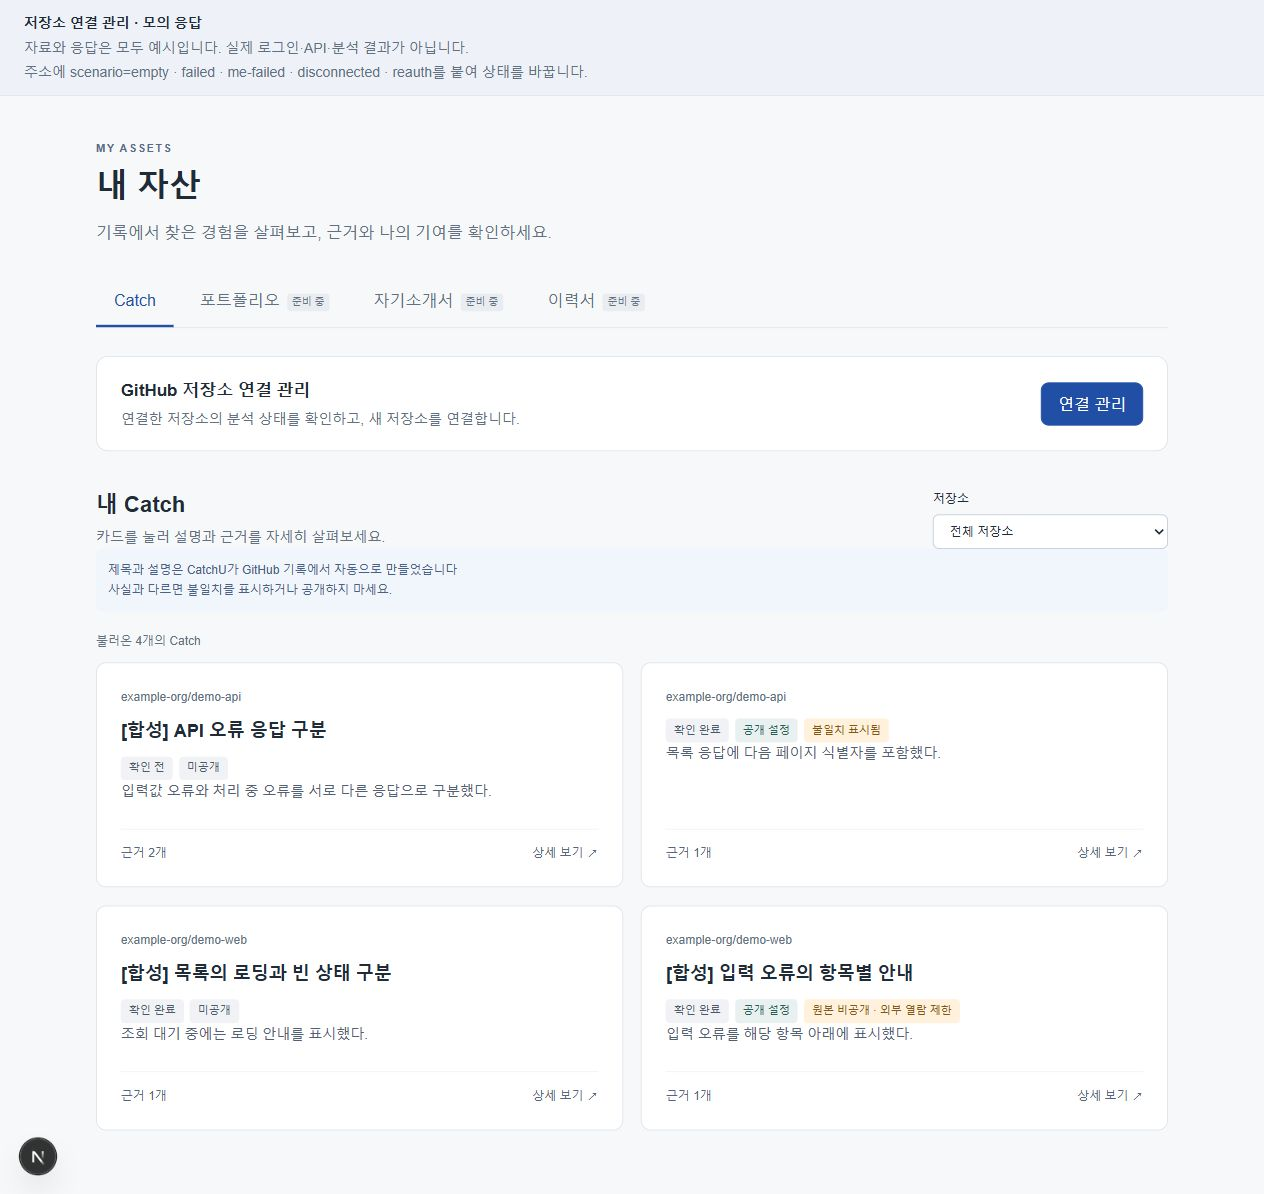
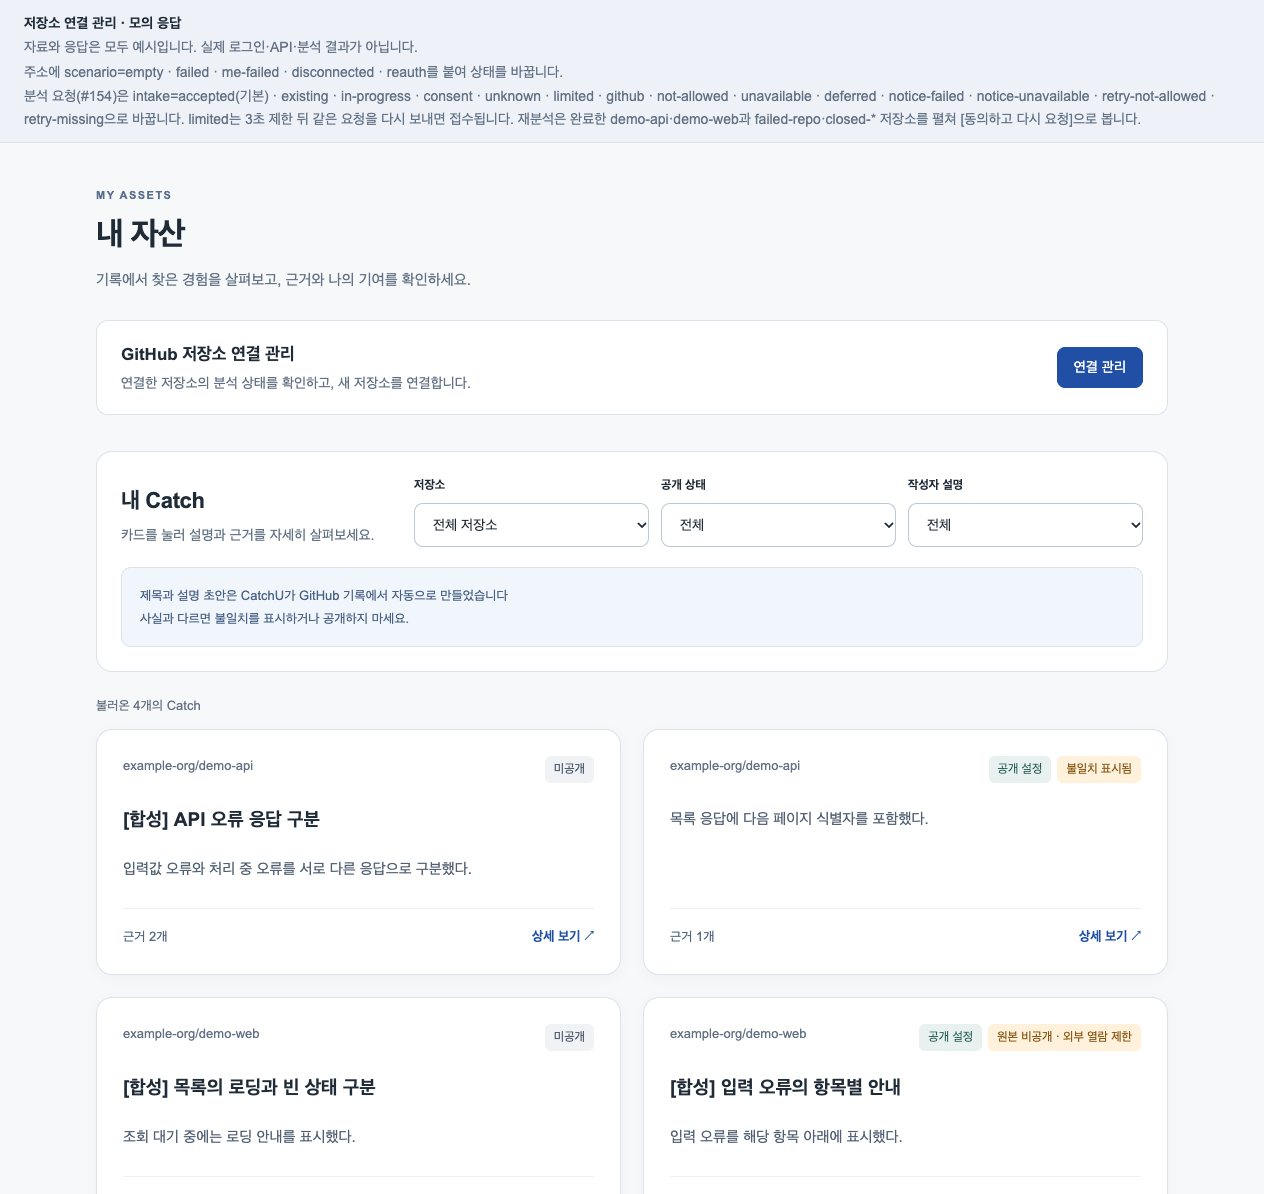
docs: 내 자산 상세·목록 안내와 사진을 두 칸 배치와 전환 단추에 맞춘다 — 설명과 사진이 없어진 확인 단계와 한 줄 배치만 보여서 (#635)

diff --git a/web/src/features/assets/docs/detail-screen.md b/web/src/features/assets/docs/detail-screen.md
@@ -1,51 +1,66 @@
-# Catch 상세·확인·공개 화면 안내
+# Catch 상세·불일치·공개 화면 안내
 
-목록에서 Catch를 열어 기록과 설명을 읽고, 내용 확인과 공개 여부를 각각 선택하는 화면이다.
+목록에서 Catch를 열어 기록과 설명을 읽고, 작성자 설명을 쓰고, 불일치 표시와 공개 여부를 고르는 화면이다.
 
-> 사진은 같은 Catch를 아래로 스크롤하며 촬영한 **합성 자료 미리보기**다. 실제 분석 결과가 아니며 저장도 개발 화면의 메모리에만 적용된다. 실제 연결 검증 범위는 [#169](https://github.com/JminAILab/CatchU/issues/169)에서 확인한다.
+> 사진은 **합성 자료 미리보기**다. 실제 분석 결과가 아니며 저장도 개발 화면의 메모리에만 적용된다. 실제 연결 검증 범위는 [#169](https://github.com/JminAILab/CatchU/issues/169)에서 확인한다.
 
-## 1. 작업 사실과 나의 기여 읽기
+## 1. 넓은 화면: 읽는 칸과 쓰는 칸
 
-![Catch 상세 상단: 제목, 확인 전·미공개 상태, 자동 생성·합성 자료 안내, 작업 사실과 나의 기여](images/catch-detail-evidence.jpg)
+![Catch 상세 두 칸 배치: 왼쪽에 제목·상태·작업 사실·나의 기여·근거, 오른쪽에 생각해 볼 질문과 작성자 설명, 바닥에 불일치 표시와 공개 선택 전환 단추](images/catch-detail-two-columns.jpg)
 
-작업에서 확인된 사실과 연동 계정의 기여 범위를 읽는다. 제목·설명은 자동 생성될 수 있으므로 아래 근거와 대조한다. 팝업을 여는 것만으로 확인 완료나 공개로 바뀌지 않는다.
+화면 가로 1200px 이상이면서 세로 600px 이상이면 창이 화면 거의 전체로 커지고 두 칸으로 나뉜다([#635](https://github.com/JminAILab/CatchU/issues/635)). 근거를 보면서 작성자 설명을 쓸 수 있게 하려는 것이다.
 
-## 2. 근거·설명·질문 살펴보기
+| 자리 | 내용 |
+|---|---|
+| 머리말 | 「CATCH DETAIL · Catch 상세」와 [닫기]. 재인증 안내가 있으면 둘째 줄에 보인다. |
+| 왼쪽 기록 칸 | 저장소 이름·제목·상태 표지·안내 → 작업에서 확인된 사실·나의 기여 → 근거 → 다시 볼 곳 → Catch 설명 초안 |
+| 오른쪽 쓰기 칸 | 생각해 볼 질문 → 작성자 설명 → [설명 저장] |
+| 바닥 결정 줄 | 불일치 표시 · 공개 선택 · [목록으로 돌아가기] |
 
-![Catch 상세 중간: 근거의 판본·기여 범위·한계, 설명 초안, 생각해 볼 질문과 현재 확인 상태](images/catch-detail-description.jpg)
+- 두 칸은 따로 스크롤한다. 한 칸을 끝까지 내려도 다른 칸과 뒤의 목록은 움직이지 않고, 머리말과 결정 줄은 늘 보인다.
+- 창 너비는 `min(1440px, 화면 − 48px)`이고 높이는 화면 − 48px이다(세로 760px 미만이면 − 24px). 좌우 너비는 1.12 : 1이고 오른쪽은 최소 400px이다. 받은 사람 화면([#615](https://github.com/JminAILab/CatchU/issues/615))과 같은 값이다.
+- 마크업 순서는 기록 칸 → 쓰기 칸 → 결정 줄이라 Tab과 낭독 순서가 보이는 순서와 같다. 기록 칸은 누를 것이 없어도 키보드로 내릴 수 있게 초점을 받는다.
+- 두 칸의 이름(「Catch 기록과 초안」·「질문과 작성자 설명」)은 화면 낭독기에만 읽힌다.
 
-칸 순서는 위에서부터 근거 → Catch 설명 초안 → 생각해 볼 질문 → 작성자 설명 → 현재 확인 상태다(새 Catch BR4.1). 사진은 작성자 설명 칸이 생기기 전 판본이다.
+## 2. 좁거나 낮은 화면: 한 줄
 
-- **근거:** PR·커밋 등 원본과 판본, 뒷받침하는 사실, 기여 범위와 그 근거로 알 수 없는 내용을 본다. 사진의 가상 주소는 외부 링크로 열리지 않는다.
-- **Catch 설명 초안:** 기록을 바탕으로 만들어진 설명을 읽는다. 초안 자체는 고치지 않는다. 설명 초안이 만들어지지 않은(NOT_GENERATED) Catch에는 이 칸이 없다(Catch 개편 CR3 BR7.1).
-- **생각해 볼 질문:** 본인이 경험을 돌아볼 질문이다. 질문 아래에 「질문을 보고 아래 칸에 자기 말로 적어 보세요.」가 있고 질문별 답 칸은 없다.
+![Catch 상세 한 줄 배치: 제목·상태·안내 아래에 작업 사실과 나의 기여, 근거, 설명 초안이 위에서 아래로 이어짐](images/catch-detail-one-column.jpg)
+
+그보다 좁거나 낮으면 같은 내용이 한 줄로 흐르고 창 전체가 스크롤한다. 순서는 기록 칸 → 쓰기 칸(옅은 바탕) → 결정 줄(남색 띠)이다. 화면을 200%로 키워 기준보다 작아져도 이 배치가 된다. 배치를 넘나들어도 쓰던 글은 남는다.
+
+## 3. 기록 칸과 쓰기 칸에서 보는 것
+
+- **상태 표지:** 「공개 설정」 또는 「미공개」, 「불일치 표시됨」, 「원본 비공개 · 외부 열람 제한」. 확인 표지는 없다.
+- **작업 사실과 나의 기여:** 작업에서 확인된 사실과 연동 계정의 기여 범위다. 제목·설명 초안은 자동으로 만들어지므로 근거와 대조한다.
+- **근거:** 머리 줄에 「근거 n」과 판본이 있고, 실제 자료는 [원본 근거 열기 ↗]가 새 탭으로 열린다. 사진의 가상 주소는 글자로만 보인다. 뒷받침하는 사실, 기여 범위, 그 근거로 알 수 없는 내용을 본다.
+- **다시 볼 곳:** 사실이 있을 때만 근거 아래에 보인다([기능 README](../README.md)).
+- **Catch 설명 초안:** 기록을 바탕으로 만들어진 설명이다. 초안 자체는 고치지 않는다. 설명 초안이 만들어지지 않은(NOT_GENERATED) Catch에는 이 칸이 없다(Catch 개편 CR3 BR7.1).
+- **생각해 볼 질문:** 질문마다 상자 하나다. 질문 아래에 「질문을 보고 아래 칸에 자기 말로 적어 보세요.」가 있고 질문별 답 칸은 없다.
 - **작성자 설명:** 「이 작업에서 정한 것」·「어떻게 확인했고 무엇을 고쳤나」·「짚어 볼 곳」 세 칸 가운데 쓰고 싶은 칸만 쓰고 [설명 저장] 하나로 저장한다. 앞 두 칸 아래에는 무엇을 쓸지 안내 한 줄이 있다. 예전 칸 제목(예: 「맡은 부분」)으로 저장한 글이 있으면 그 칸도 원래 자리에 보인다. 빈 칸은 면접관에게 보이지 않는다. 「짚어 볼 곳」 아래 안내대로 근거의 본인 커밋 화면에서 바뀐 줄 주소를 붙이면 면접관 화면에서 이름으로 보인다. 합계는 칸 제목 포함 4,000자까지다. 편집은 제품 상세와, 합성 설명을 쓰는 `/preview/assets-connected`에서 열린다([기능 README](../README.md) 「Catch 작성자 설명 편집」).
-- **현재 확인 상태:** 작업 사실·나의 기여의 확인 여부와 불일치 표시를 구분한다.
 
-## 3. 확인·불일치·공개를 각각 선택하기
+## 4. 결정 줄: 불일치 표시와 공개 선택
 
-![Catch 상세 하단: 두 확인 체크박스, 확인 완료, 불일치 표시와 별도의 공개 선택 버튼](images/catch-detail-actions.jpg)
+![결정 줄: 불일치 표시 전환 단추(표시 안 함)와 공개 선택 전환 단추(공개 설정), 목록으로 돌아가기](images/catch-detail-decision-bar.jpg)
+
+둘 다 켜고 끄는 전환 단추이고, 옆의 글(「표시 안 함」/「표시됨」, 「미공개」/「공개 설정」)이 지금 상태다. Space나 Enter로 바꾼다.
 
 | 행동 | 화면에서 일어나는 일 |
 |---|---|
-| 내용 확인 | 작업 사실과 나의 기여를 각각 체크한 뒤 [확인 완료]를 누른다. 체크만으로 저장되지는 않는다. |
-| 불일치 표시·해제 | 사실과 맞지 않는 설명에 표시한다. 설명·확인·공개 상태는 자동 변경하지 않는다. |
-| 지금 공개 | 두 항목의 확인을 마친 뒤 별도로 누른다. 원본이 보호된 Catch는 공개할 수 없다. |
-| 숨기기 | 공개한 Catch를 숨긴다. 이미 발행한 발행본에는 그대로 남는다(발행본은 발행할 때 고정한 사본이다, #565). 보낸 링크의 제공을 끝내려면 발행본에서 링크를 중지한다. |
-| 닫기·목록으로 돌아가기 | 목록의 저장소 필터와 기존 버튼 초점을 유지한다. Escape로도 닫을 수 있다. |
+| 불일치 표시 켜기·끄기 | 사실과 맞지 않는 Catch에 표시한다. 표시와 해제는 다음에 발행하는 발행본부터 반영된다. 설명과 공개 상태는 바뀌지 않는다. |
+| 공개 켜기 | 작업 사실과 나의 기여가 맞는지 본 뒤 켠다. 공개한 Catch만 프리셋에 담아 발행할 수 있다. 원본이 보호된 Catch는 켤 수 없다. |
+| 공개 끄기(숨기기) | 이미 발행한 발행본에는 그대로 남는다(발행본은 발행할 때 고정한 사본이다, #565). 보낸 링크의 제공을 끝내려면 발행본에서 링크를 중지한다. |
+| 닫기·목록으로 돌아가기 | 목록의 필터와 열었던 버튼의 초점을 유지한다. Escape로도 닫을 수 있다. |
 
-**근거 읽기 → 두 항목 체크 → [확인 완료] → 필요할 때 [지금 공개]**
-
-확인 완료만으로 공개되지 않는다. 불일치 표시는 어느 단계에서든 별도로 할 수 있으며, 공개 설정을 되돌리려면 [숨기기]를 사용한다. 이미 보낸 발행본은 숨겨도 바뀌지 않는다. ‘공개 설정’과 원본 보호에 따른 실제 외부 열람 가능 여부도 구분한다.
+내용 확인을 따로 하는 단계는 없다(2026-11-24 결정, #635). 공개를 켜면 화면이 확인을 함께 저장한다. 공개는 Catch마다 직접 켜야 하므로 만들어진 것만으로 공개되지는 않는다.
 
 ## 저장이 늦거나 실패할 때
 
-- 저장 중에는 반복 조작을 막는다. 창을 닫아도 보낸 요청이 취소되지는 않는다.
-- 저장 오류가 나면 성공으로 표시하지 않고 마지막 확인값을 유지한다. [현재 상태 다시 불러오기] 후 다음 조작을 한다.
+- 전환 단추를 누르면 바로 옮겨 보이고 「저장 중…」이 뜬다. 저장 중에는 두 단추를 모두 막는다. 창을 닫아도 보낸 요청이 취소되지는 않는다.
+- 저장에 실패하면 단추가 원래 자리로 돌아오고 성공으로 표시하지 않는다. 결정 줄의 [현재 상태 다시 불러오기] 후 다음 조작을 한다.
 - 설명·질문을 만들지 못한 경우는 각각 별도 안내한다. Catch 자체를 조회하지 못한 경우와 구분한다.
 
 ## 사진 기준과 실행
 
-2026-10-19, [화면 코드 기준 판본](https://github.com/JminAILab/CatchU/tree/71902bb24f587d037e9dfca815b401854ab6517e/web/src/features/assets). [web 실행 안내](../../../../README.md)에 따라 개발 서버를 켠 뒤 `/preview/assets-connected?catchId=synthetic-catch-api-errors`에서 촬영했다. 개발용 합성 응답으로 표시·조작을 확인한 것이며 실제 로그인·API·DB 전체 연결을 입증하지 않는다.
+2026-11-24, #635 작업 판본. [web 실행 안내](../../../../README.md)에 따라 개발 서버를 켠 뒤 `/preview/assets-connected?catchId=synthetic-catch-api-errors`를 1440×900으로(두 칸, 결정 줄), `catchId=synthetic-catch-web-loading`을 1024×900으로(한 줄) 촬영했다. 개발용 합성 응답으로 표시·조작을 확인한 것이며 실제 로그인·API·DB 전체 연결을 입증하지 않는다.
 
 [목록 화면으로](list-screen.md) · [실행·API 연결 세부](../README.md)

diff --git a/web/src/features/assets/docs/list-screen.md b/web/src/features/assets/docs/list-screen.md
@@ -6,28 +6,26 @@
 
 ## 화면에서 보이는 것
 
-![합성 자료로 표시한 내 자산 목록: 저장소 연결 관리, 저장소 필터와 네 개의 Catch 카드](images/assets-list.jpg)
-
-사진은 자산 종류 탭 줄이 있던 판본이다. 탭 줄은 #416 팀장 요청(2026-11-03)으로 지웠고, 지금 화면은 제목 아래에 바로 저장소 연결 관리가 온다.
+![합성 자료로 표시한 내 자산 목록: 저장소 연결 관리, 저장소·공개 상태·작성자 설명 필터와 Catch 카드](images/assets-list.jpg)
 
 | 위치 | 사용자가 할 수 있는 일 |
 |---|---|
 | GitHub 저장소 연결 관리 | [연결 관리]로 저장소 관리 창을 연다. 분석 상태 확인·요청 흐름은 [저장소 관리 기능](../../repository-management/README.md)에서 다룬다. |
 | 저장소 필터 | 전체 또는 특정 저장소의 Catch만 본다. |
 | 공개 상태 필터 | 전체·공개 설정·미공개 중 하나를 골라 본다. 저장소 필터와 함께 쓴다. 새 Catch는 미공개로 만들어지므로 공개할 것을 고를 때 미공개만 모아 볼 수 있다([#454](https://github.com/JminAILab/CatchU/issues/454)). |
-| 작성자 설명 필터 | 공개 상태 다음의 「작성자 설명: 전체/씀/안 씀」. 아직 설명을 안 쓴 Catch를 찾거나 쓴 Catch만 모아 본다. 저장소처럼 서버에서 거르고 고르면 첫 쪽부터 다시 불러온다. 카드에는 설명 여부를 보이지 않는다(새 Catch BR5.4). 이 안내의 사진은 이 칸이 생기기 전 판본이다. |
+| 작성자 설명 필터 | 공개 상태 다음의 「작성자 설명: 전체/씀/안 씀」. 아직 설명을 안 쓴 Catch를 찾거나 쓴 Catch만 모아 본다. 저장소처럼 서버에서 거르고 고르면 첫 쪽부터 다시 불러온다. 카드에는 설명 여부를 보이지 않는다(새 Catch BR5.4). |
 | Catch 카드 | 저장소, 작업 사실 요약, 근거 개수와 상태를 본다. 제목을 누르면 상세가 열린다. 제목이 없으면 [상세 보기] 버튼으로 연다. |
 
 이 화면은 Catch만 다룬다. 텍스트 자료는 헤더의 [텍스트 자료](`/materials`, [텍스트 자료 화면](../../materials/README.md))에서 만들고 고친다.
 
-카드의 **확인 상태**와 **공개 설정**은 별개다. ‘확인 완료’여도 미공개일 수 있고, ‘공개 설정’이어도 원본 보호로 외부 열람이 제한될 수 있다. 불일치 표시도 따로 보인다.
+카드의 상태 표지는 「공개 설정」 또는 「미공개」, 「불일치 표시됨」, 「원본 비공개 · 외부 열람 제한」이다. 확인 표지는 없다(내용 확인을 공개에 합침, [#635](https://github.com/JminAILab/CatchU/issues/635)). ‘공개 설정’이어도 원본 보호로 외부 열람이 제한될 수 있다.
 
 ## 사용하는 순서
 
 1. 저장소·공개 상태·작성자 설명 필터를 고른다.
-2. Catch 제목 또는 [상세 보기]를 눌러 [상세·확인·공개 화면](detail-screen.md)을 연다.
+2. Catch 제목 또는 [상세 보기]를 눌러 [상세·불일치·공개 화면](detail-screen.md)을 연다.
 3. 상세를 닫으면 기존 필터를 유지하고, 열었던 버튼으로 초점이 돌아온다. 걸러 본 목록에서 작성자 설명을 저장하거나 지워도 지금 쪽은 그대로이고, 필터를 다시 고르거나 화면을 다시 열면 조건대로 바뀐다.
-4. 추가 자료가 있으면 [더 보기]로 이어서 불러온다. 사진은 네 건을 모두 받은 예시라 이 버튼이 없다.
+4. 추가 자료가 있으면 [더 보기]로 이어서 불러온다.
 
 저장소 관리 창을 닫으면 목록을 갱신한다. 창 안의 [이 저장소 Catch 보기]로 돌아오면 그 저장소 필터를 적용하고 공개 상태·작성자 설명은 전체로 되돌려 다시 불러온다. 막 분석한 Catch는 미공개이고 작성자 설명도 없어 두 필터에 가려지지 않게 하려는 것이다.
 
@@ -42,6 +40,6 @@
 
 ## 사진 기준과 실행
 
-2026-10-19, [화면 코드 기준 판본](https://github.com/JminAILab/CatchU/tree/71902bb24f587d037e9dfca815b401854ab6517e/web/src/features/assets). [web 실행 안내](../../../../README.md)에 따라 개발 서버를 켠 뒤 `/preview/repository-management`에서 촬영했다. 공통 로그인·헤더를 포함한 제품 전체가 아니라 B 목록과 저장소 관리의 조립을 보여주는 개발 화면이다.
+2026-11-24, #635 작업 판본. [web 실행 안내](../../../../README.md)에 따라 개발 서버를 켠 뒤 `/preview/repository-management`를 1264×1194로 촬영했다(화면 위쪽만 담겼다). 공통 로그인·헤더를 포함한 제품 전체가 아니라 B 목록과 저장소 관리의 조립을 보여주는 개발 화면이다.
 
 API 호출·주소 유지·제품 페이지 연결은 [기능 README](../README.md)를 따른다. 이 안내는 현재 화면 설명이며 새로운 기능·정책을 정하지 않는다.
